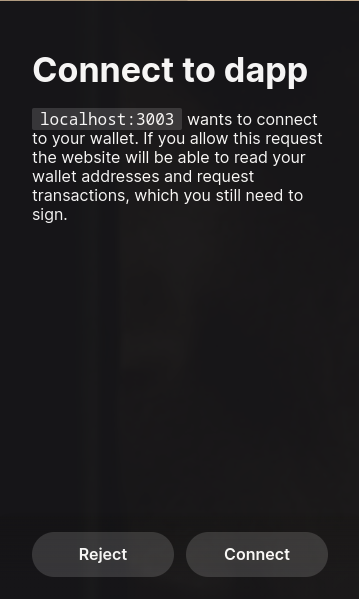
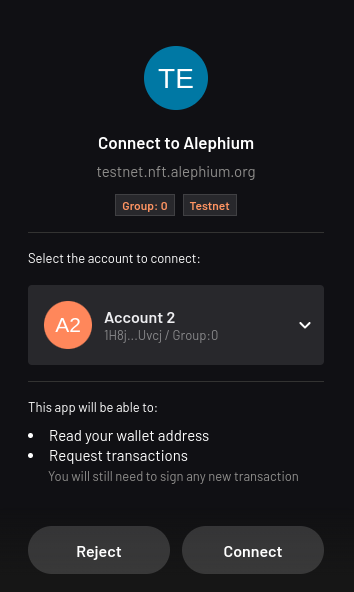
Update dApp integration for extension wallet

diff --git a/docs/wallet/extension-wallet/dapp.md b/docs/wallet/extension-wallet/dapp.md
@@ -4,129 +4,108 @@ title: Extension Wallet for dApps
 sidebar_label: dApp integration
 ---
 
-The Alephium extension wallet injects a global object `window.alephium` into the websites
-that the user interacts with. dApps can use this object to authenticate the user, request
-user accounts and communicate with the Alephium blockchain such as signing and submitting
-various transactions. To detect the `window.alephium` object, we recommand to use the
+The Alephium extension wallet injects a global object
+`window.alephiumProviders.alephium` into the web apps that the user
+interacts with. dApps can use this object to authenticate the user,
+request user accounts and communicate with the Alephium blockchain
+such as signing and submitting transactions. To detect the
+`window.alephiumProviders.alephium` object, we recommand to use the
 [@alephium/get-extension-wallet](https://www.npmjs.com/package/@alephium/get-extension-wallet)
 package.
 
-### 1. Basic Setup
+### Basic Setup
 
 ```
 npm install --save @alephium/get-extension-wallet
 ```
 
-The following code shows how to connect to the extension wallet, get accounts as well as
-listen to events to detect account and network updates:
+The following code shows how to connect to the extension wallet using
+pure typescript:
 
 ```ts
-import { connect } from "@alephium/get-extension-wallet"
+import { getDefaultAlephiumWallet } from "@alephium/get-extension-wallet"
 
 async function tryConnect() {
-  // Show the available extension wallets for users to select. Returns the
-  // `window.alephium` object after user selects the extension wallet.
-  const windowAlephium = await connect({ showList: false })
+  // Returns the `window.alephiumProviders.alephium` object after user selects
+  // the extension wallet.
+  const windowAlephium = await getDefaultAlephiumWallet()
+  // Authenticate user to the current dApp, return the selected account
+  const selectedAccount = await windowAlephium?.enable()
 
-  if (windowAlephium) {
-    // Authenticate user to the current dApp
-    await windowAlephium.enable()
-    
-    // Get all the available accounts in the extension wallet
-    const accounts = await windowAlephium.getAccounts()
-    
-    // Get the selected account in the extension wallet
-    const selectedAccount = windowAlephium.selectedAccount
-
-    // Listen to the event where anther account is selected
-    windowAlephium.on("addressesChanged", (address) => { 
-      assert(address === windowAlephium.selectedAccount.address)
-      console.log(`Address ${address} is selected`)
-    })
-
-    // Listen to the event where network is changed. e.g. from `testnet` to `mainnet`
-    windowAlephium.on("networkChanged", (network) => { 
-      console.log(`Network ${network} is selected`)
-    })
+  if (windowAlephium && selectedAccount) {
+    // From here, you can execute various transactions:
+    //
+    // windowAlephium.signAndSubmitTransferTx(...)
+    // windowAlephium.signAndSubmitDeployContractTx(...)
+    // windowAlephium.signAndSubmitExecuteScriptTx(...)
+    // ...
   }
 }
 ```
 
-User will be prompted to connect to the current web page when `windowAlephium.enable()` method is called:
+Users will be prompted to connect to the current dApp when
+`windowAlephium?.enable()` method is called:
+
 <img src={require("./media/connect-dapp.png").default} alt="Connect dApp" width="250" />
 
-After user clicks the `Connect` button, the extension wallet will return all the available accounts
-to the dApp.
+After user clicks the `Connect` button, dApp is connected with users
+extension wallet.
 
-### 2. Sign Transactions
+### Web3 React
 
-`windowAlephium` object [implements](https://github.com/alephium/extension-wallet/blob/4f29c8f10843b737cda87ddc689b71c298a42e57/packages/get-extension-wallet/src/types.ts#L138)
-the [SignerProvider](https://github.com/alephium/alephium-web3/blob/ad4401d9ef87eced37d03762324297aeba07e03d/packages/web3/src/signer/signer.ts#L154), which exposes the following
-interfaces:
+For dApps built with react,
+[@alephium/web3-react](https://www.npmjs.com/package/@alephium/web3-react)
+offers an easier way to authenticate with dApps using wallets,
+including extension wallet.
 
-```ts
-export interface SignerProvider {
-  // Get all the available accounts from the wallet
-  getAccounts(): Promise<Account[]>
+A minimal example is shown below:
 
-  // Sign and optionally submit the transaction that transfers assets
-  signTransferTx(params: SignTransferTxParams): Promise<SignTransferTxResult>
-
-  // Sign and optionally submit the transaction that deploys a contract
-  signDeployContractTx(params: SignDeployContractTxParams): Promise<SignDeployContractTxResult>
-
-  // Sign and optionally submit the transaction that executes a transaction script
-  signExecuteScriptTx(params: SignExecuteScriptTxParams): Promise<SignExecuteScriptTxResult>
-
-  // Sign an unsigned transaction
-  signUnsignedTx(params: SignUnsignedTxParams): Promise<SignUnsignedTxResult>
-
-  // Sign a hex string
-  signHexString(params: SignHexStringParams): Promise<SignHexStringResult>
-
-  // Sign a message
-  signMessage(params: SignMessageParams): Promise<SignMessageResult>
-}
+```typescript
+const App = () => {
+  return (
+    <AlephiumConnectProvider useTheme="retro">
+      /* Your App */
+      <AlephiumConnectButton />
+    </AlephiumConnectProvider>
+  );
 ```
 
-For example, together with the [@alephium/web3](https://www.npmjs.com/package/@alephium/web3) package, here is
-how we can execute a transaction script called `HelloWorld` using the `windowAlephium` object created from the
-previous section.
+This will place a button in your dApp with the `retro` built-in
+theme. Once users click the button, a pop-up window will show up to
+ask users to select wallets to connect:
+
+<img src={require("./media/connect-dapp-2.png").default} alt="Connect dApp Web3 React" />
+
+If user selects `Extension Wallet`, user will again be prompted to
+connect to the current dApp. After user clicks the `Connect` button,
+dApp is connected with users extension wallet.
+
+### Sign Transactions
+
+`windowAlephium` object implements the
+[InteractiveSignerProvider](https://github.com/alephium/alephium-web3/blob/master/packages/web3/src/signer/signer.ts#L80),
+which exposes the following methods for transaction signing:
 
 ```ts
-TxScript HelloWorld() {
-  emit Debug(`Hello World`)
-}
+abstract signAndSubmitTransferTx(params: SignTransferTxParams): Promise<SignTransferTxResult>
+abstract signAndSubmitDeployContractTx(params: SignDeployContractTxParams): Promise<SignDeployContractTxResult>
+abstract signAndSubmitExecuteScriptTx(params: SignExecuteScriptTxParams): Promise<SignExecuteScriptTxResult>
+abstract signAndSubmitUnsignedTx(params: SignUnsignedTxParams): Promise<SignUnsignedTxResult>
+abstract signUnsignedTx(params: SignUnsignedTxParams): Promise<SignUnsignedTxResult>
+// The message will be prefixed with 'Alephium Signed Message: ' before signing
+// so that the resulted signature cannot be reused for building transactions.
+abstract signMessage(params: SignMessageParams): Promise<SignMessageResult>
 ```
 
-Please refer to the [Getting Started](/dapps/getting-started#compiling-your-contracts) page
-for more details about how to compile smart contracts into artifacts that can be used in your
-dApp. More on the Ralph programming language, check out the [language reference](/ralph/getting-started).
-In this case, we assume that the compiled artifact for `HelloWorld` is located at
-`../artifacts/hello_world.ral.json`
+When any of these method is executed, extension wallet will provide
+neccessary information depending on the type of the transaction and
+prompt user for signature. 
 
-```ts
-import { Script } from "@alephium/web3"
-import helloWorldArtifact from '../artifacts/hello_world.ral.json'
+The following is an example of a transaction for token transfer: user
+is transferring 2 `TokenFaucet` token from `Salary` account to
+`Saving` account.
 
-async function callScript() {
-  // Load the transaction script
-  const helloWorld = Script.fromJson(helloWorldArtifact)
-  
-  // Constract the execution parameters 
-  const deployParams = helloWorld.paramsForDeployment({
-    signerAddress: windowAlephium.selectedAccount.address,
-  })
-  
-  // Sign and execute the script, return the result
-  return await windowAlephium.signExecuteScriptTx(deployParams)
-}
-```
+<img src={require("./media/transaction-signing-transfer.png").default} alt="Transaction Signing Transfer" width="250" />
 
-That is it! When signature is needed, user will be prompted to approve the transaction as follows:
-
-<img src={require("./media/execute-txscript.png").default} alt="Execute Transction Script" width="250" />
-
-
-After user clicks the `Approve` button, the transction will be signed and submitted to the Alephium blockchain
-by the extension wallet. Other methods can be executed in a similiar way.
+After user clicks the `Sign` button, the transction will be signed and
+submitted to the Alephium blockchain by the extension wallet.

diff --git a/docs/ralph/built-in-functions.md b/docs/ralph/built-in-functions.md
@@ -586,7 +586,7 @@ Tests the condition or checks invariants.
 >
 > @param **errorCode** *the error code to throw if the check fails*
 >
-> @returns *true if the condition is satisfied, false otherwise*
+> @returns
 
 ---
 
@@ -1324,7 +1324,7 @@ Verifies the transaction SecP256K1 signature of a public key. The signature is s
 
 > @param **publicKey** *the public key (33 bytes) of the signer*
 >
-> @returns *true if the signature is valid, false otherwise*
+> @returns
 
 ---
 
@@ -1354,7 +1354,7 @@ Verifies the SecP256K1 signature of the input and public key.
 >
 > @param **signature** *the signature (64 bytes) value*
 >
-> @returns *true if the signature is valid, false otherwise*
+> @returns
 
 ---
 
@@ -1372,7 +1372,7 @@ Verifies the ED25519 signature of the input and public key.
 >
 > @param **signature** *the signature value (64 bytes)*
 >
-> @returns *true if the signature is valid, false otherwise*
+> @returns
 
 ---
 
@@ -1390,7 +1390,7 @@ Verifies the BIP340 Schnorr signature of the input and public key.
 >
 > @param **signature** *the signature value (64 bytes)*
 >
-> @returns *true if the signature is valid, false otherwise*
+> @returns
 
 ---
 
